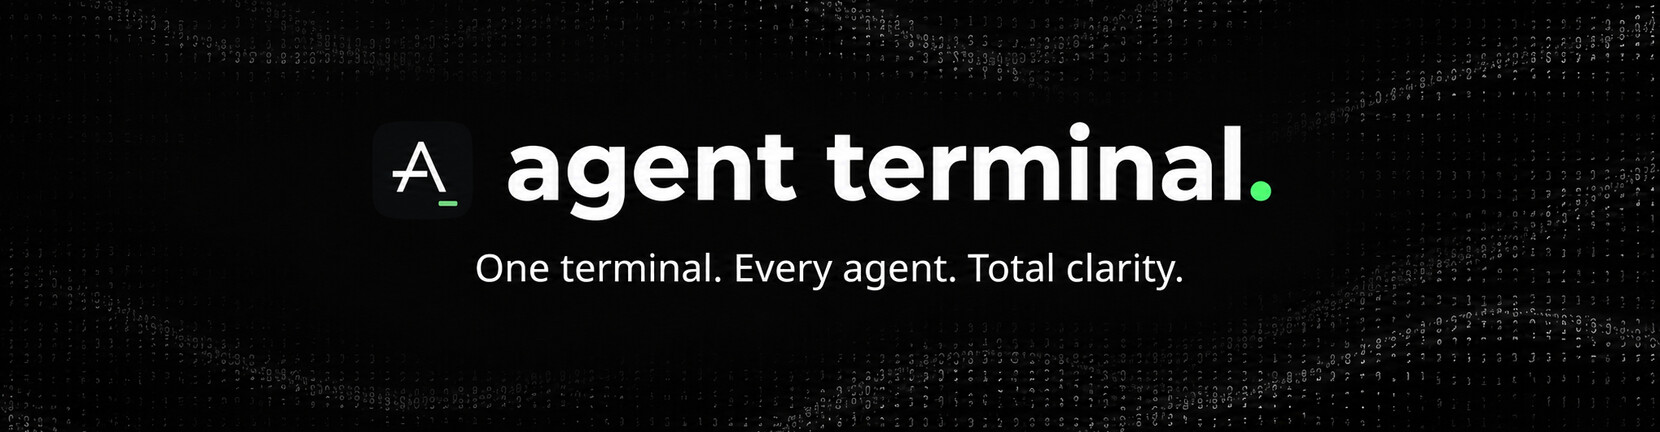
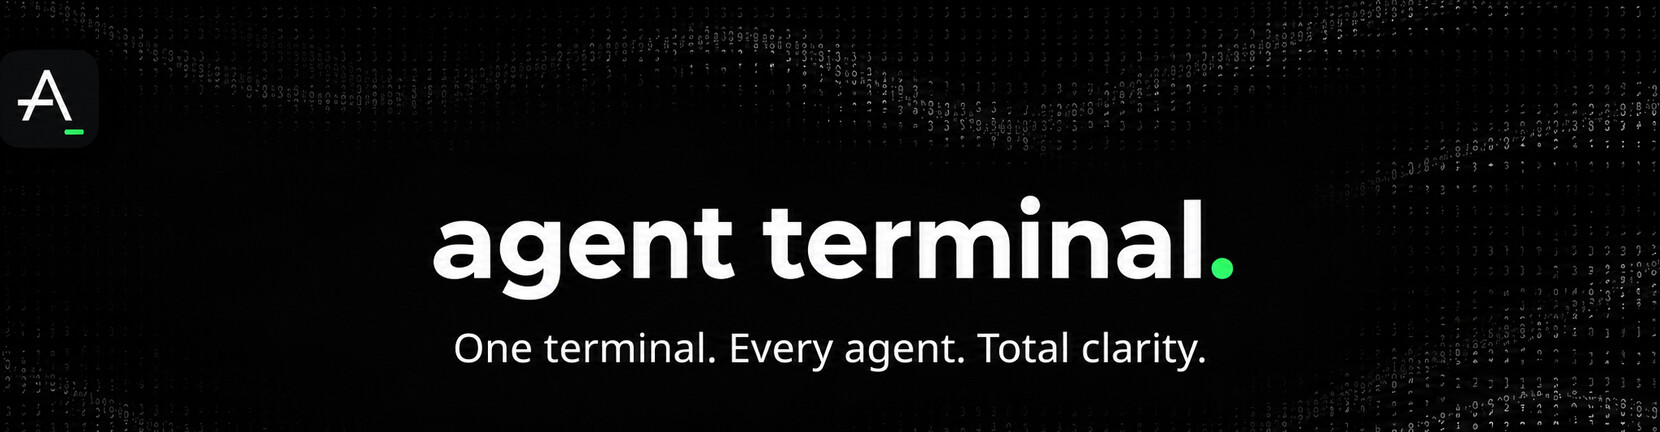
docs: refine readme header

diff --git a/README.md b/README.md
@@ -1,10 +1,6 @@
 <div align="center">
   <img src="./docs/assets/readme-header.jpg" alt="Agent Terminal — One terminal. Every agent. Total clarity." />
 
-  # Agent Terminal
-
-  **A terminal workspace built around AI coding agents.**
-
   [![Latest release](https://img.shields.io/github/v/release/DaniAkash/agent-terminal?include_prereleases&label=latest&color=blue)](https://github.com/DaniAkash/agent-terminal/releases)
   [![Status](https://img.shields.io/badge/status-stable-brightgreen)](#status)
   [![Platform](https://img.shields.io/badge/platform-macOS-lightgrey)](https://github.com/DaniAkash/agent-terminal/releases)
@@ -24,8 +20,6 @@
 <p align="center">
   <a href="https://www.producthunt.com/products/agent-terminal?embed=true&utm_source=badge-featured&utm_medium=badge&utm_campaign=badge-agent-terminal" target="_blank"><img src="https://api.producthunt.com/widgets/embed-image/v1/featured.svg?post_id=1136595&theme=light&t=1777623264721" alt="Agent terminal - One terminal. Every agent. Total clarity. | Product Hunt" width="250" height="54" /></a>
 </p>
-
----
 
 ## Status
 
